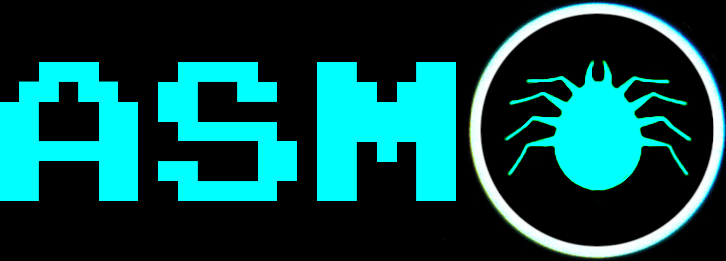
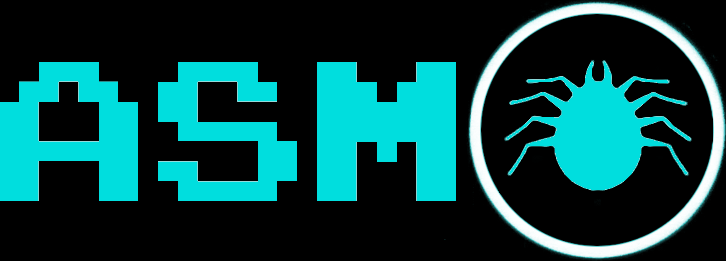
aggiornamento

Changed region(s): [[0.0, 0.2146, 0.7576, 0.9502], [0.697, 0.2452, 0.9394, 0.7356], [0.6667, 0.0, 1.0, 1.0]]

diff --git a/hcf.css b/hcf.css
@@ -22,7 +22,7 @@
     /*--text:#00ffff;*/
     /*--muted:#4f7a35;*/
     /*--muted:#3a9070;*/
-    --muted:#00ffff;
+    --muted:#00dede;
 }
 
 *{ margin:0; padding:0; box-sizing:border-box; }
